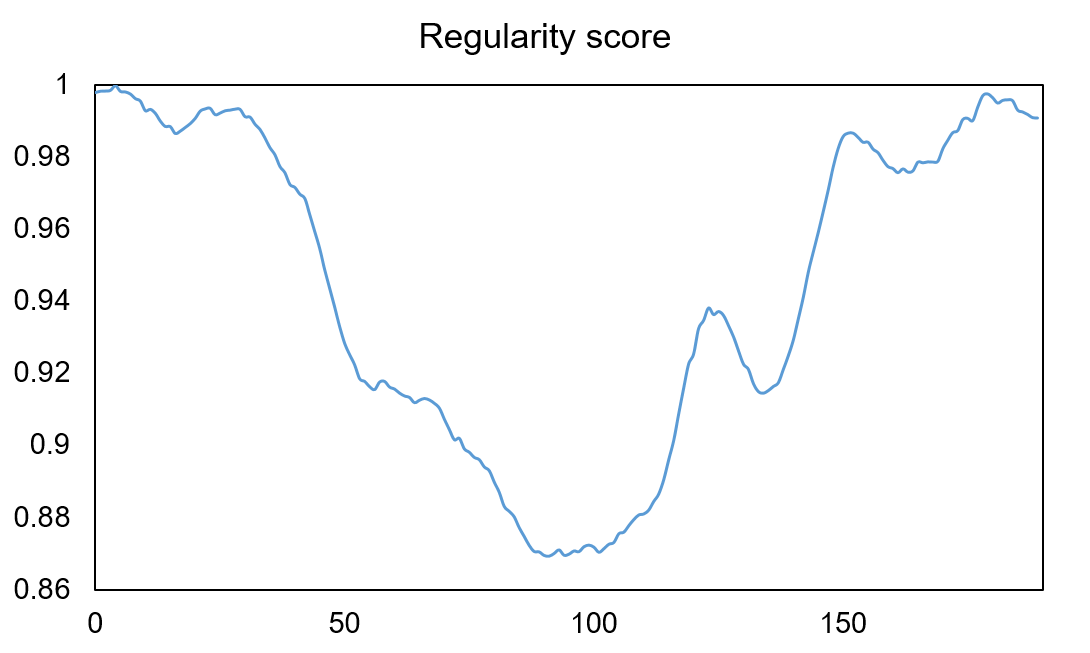
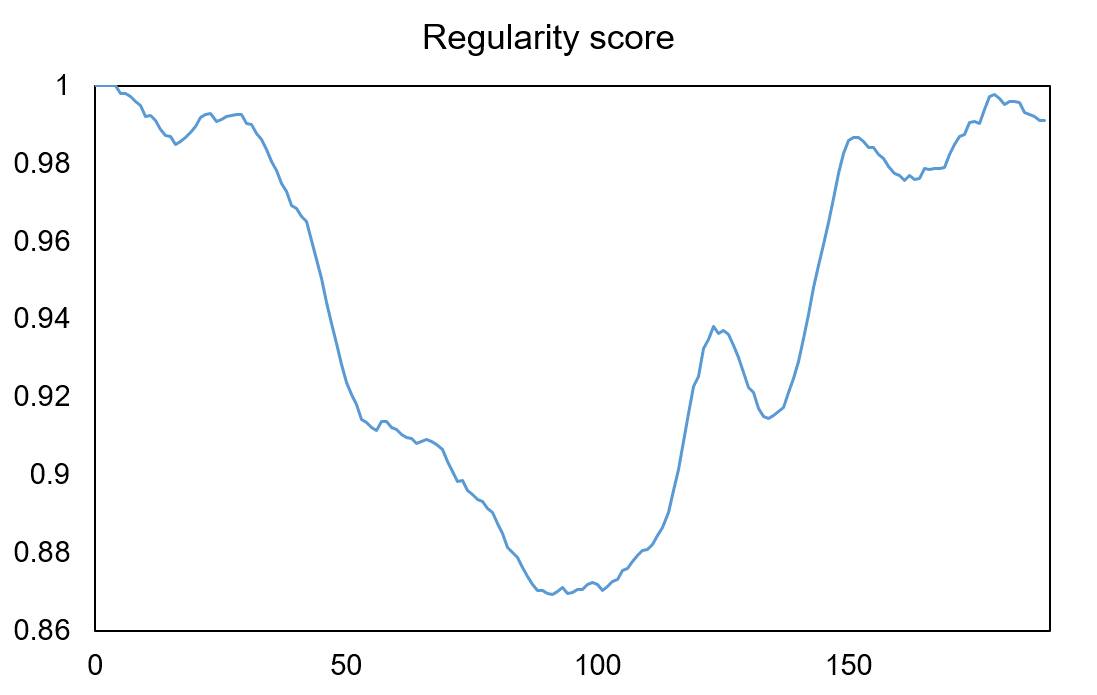
Minor fix

diff --git a/evaluate.py b/evaluate.py
@@ -1,6 +1,3 @@
-import os
-import sys
-
 import torch
 from torch.utils.data import DataLoader
 
@@ -44,10 +41,11 @@ def evaluate():
 
     gts = []
     preds = []
+    regularity_score = []
 
     with torch.set_grad_enabled(False):
         pbar = tqdm(testloader)
-        regularity_score = []
+        
         for i, seqs in enumerate(pbar):
             model.eval()
 
@@ -65,12 +63,17 @@ def evaluate():
             gts.append(seqs)
             preds.append(outs)
 
-    seqs_reconstruction_cost = np.array([np.linalg.norm(np.subtract(gts[i],preds[i])) for i in range(0,len(pbar))])
-    sa = (seqs_reconstruction_cost - np.min(seqs_reconstruction_cost)) / np.max(seqs_reconstruction_cost)
-    sr = 1 - sa
+            seqs_reconstruction_cost = np.array([np.linalg.norm(np.subtract(gts[j],preds[j])) for j in range(0,i+1)])      
+            sa = (seqs_reconstruction_cost - np.min(seqs_reconstruction_cost)) / np.max(seqs_reconstruction_cost)
+            sr = 1 - sa
+
+            if i == 0:
+                regularity_score.extend(sr)
+            else:
+                regularity_score.append(sr[-1])
 
     f = open('result.csv','w')
-    for i, score in enumerate(sr):
+    for i, score in enumerate(regularity_score):
         vstr = str(i) + ',' + str(score) + '\n'
         f.write(vstr)
     f.close()

diff --git a/train.py b/train.py
@@ -1,5 +1,4 @@
 import os
-import sys
 
 import torch
 from torch.utils.data import DataLoader
